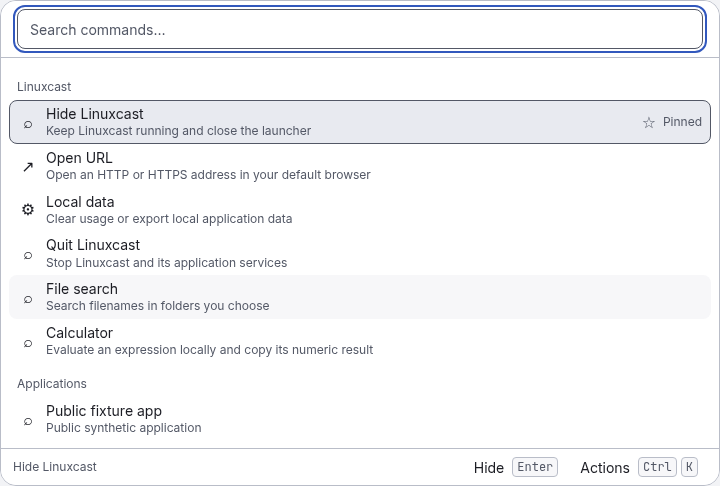
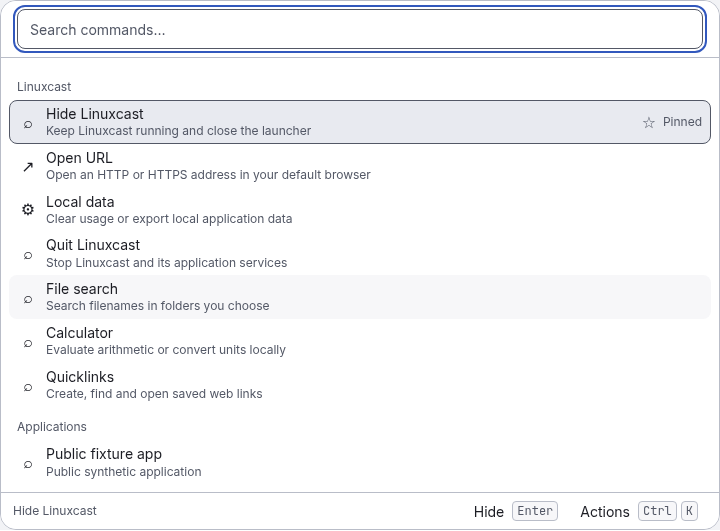
test(quicklinks): verify real saved-link application flow and record limits

diff --git a/apps/desktop/tests/quicklinks.integration.test.ts b/apps/desktop/tests/quicklinks.integration.test.ts
@@ -31,7 +31,7 @@ it('creates, locally finds, edits and explicitly opens real persisted Quicklinks
   const launch=async()=>{application=await electron.launch({executablePath:executable,args:[wrapper,'--show'],chromiumSandbox:true,env,timeout:20000});const page=await application.firstWindow();await page.waitForURL('linuxcast-app://shell/index.html');return {app:application,page};};
   const reopen=async()=>await new Promise<void>((resolve,reject)=>{const child=spawn(executable,[wrapper,'--show'],{env,stdio:'ignore'}),timer=setTimeout(()=>{child.kill('SIGKILL');reject(new Error('Reopen deadline.'));},10000);child.once('error',reject);child.once('exit',code=>{clearTimeout(timer);if(code===0)resolve();else reject(new Error('Reopen failed.'));});});
   let {app,page}=await launch();
-  const open=async()=>{const query=page.getByRole('searchbox',{name:'Search commands',exact:true});await query.fill('quicklinks');await expect.poll(()=>page.getByRole('option',{selected:true}).textContent()).toContain('Quicklinks');await query.press('Enter');await page.getByRole('searchbox',{name:'Quicklinks',exact:true}).waitFor();};
+  const open=async()=>{const query=page.getByRole('searchbox',{name:'Search commands',exact:true});await query.fill('quicklinks');await expect.poll(()=>page.getByRole('option',{selected:true}).textContent()).toContain('Quicklinks');await query.press('Enter');await page.getByRole('searchbox',{name:'Quicklinks',exact:true}).waitFor();await expect.poll(()=>page.locator('.lc-view:visible .lc-loading').count()).toBe(0);};
   const noOpen=()=>expect(existsSync(marker)).toBe(false),url='HTTPS://EXAMPLE.invalid:443/docs?public=%24%28literal%29',canonical='https://example.invalid/docs?public=%24%28literal%29';
   await open();noOpen();await action(page,'New quicklink');const name=page.getByRole('textbox',{name:'Name (required)',exact:true}),urlField=page.getByRole('textbox',{name:'URL (required)',exact:true});
   await name.fill('Public docs');await urlField.fill('https://example.invalid/{query}');await page.getByRole('button',{name:'Save quicklink',exact:true}).click();await expect.poll(()=>urlField.getAttribute('aria-invalid')).toBe('true');expect(await name.inputValue()).toBe('Public docs');noOpen();
@@ -43,14 +43,14 @@ it('creates, locally finds, edits and explicitly opens real persisted Quicklinks
   await localQuery.press('Enter');await expect.poll(()=>{try{return JSON.parse(readFileSync(marker,'utf8'));}catch{return null;}}).toEqual({argv:[canonical],stdin:''});await expect.poll(()=>app.evaluate(({BrowserWindow})=>BrowserWindow.getAllWindows()[0]!.isVisible())).toBe(false);
   await reopen();await open();await action(page,'Edit quicklink');await name.waitFor();expect(await name.inputValue()).toBe('Public docs');expect(await urlField.inputValue()).toBe(canonical);await name.fill('Public guide');await urlField.fill('https://example.invalid/updated?public=two');await page.getByRole('button',{name:'Save quicklink',exact:true}).click();await localQuery.waitFor();
   expect(JSON.parse(readFileSync(marker,'utf8'))).toEqual({argv:[canonical],stdin:''});
-  await app.evaluate(({dialog})=>{dialog.showMessageBox=async()=>({response:0,checkboxChecked:false});});await action(page,'Remove quicklink');await expect.poll(()=>page.getByRole('option').count()).toBe(1);
+  await app.evaluate(({dialog})=>{dialog.showMessageBox=async()=>({response:0,checkboxChecked:false});});await action(page,'Remove quicklink');await expect.poll(()=>page.locator('.lc-view:visible .lc-loading').count()).toBe(0);await expect.poll(()=>page.getByRole('option').count()).toBe(1);
   expect(await page.evaluate(async()=>{const result=await(window as unknown as {linuxcast:DesktopShellApi}).linuxcast.listQuicklinks!();return result.ok?result.value.records.map(value=>value.name):null;})).toEqual(['Public guide']);
   await action(page,'New quicklink');await name.fill('Public temporary');await urlField.fill('https://example.invalid/temporary');await page.getByRole('button',{name:'Save quicklink',exact:true}).click();await localQuery.waitFor();await localQuery.fill('temporary');await expect.poll(()=>page.getByRole('option').count()).toBe(1);
   await app.evaluate(({dialog})=>{dialog.showMessageBox=async()=>({response:1,checkboxChecked:false});});await action(page,'Remove quicklink');await expect.poll(()=>page.getByRole('option').count()).toBe(0);await localQuery.fill('guide');await expect.poll(()=>page.getByRole('option').count()).toBe(1);
   await page.getByRole('button',{name:'Back',exact:true}).click();const rootQuery=page.getByRole('searchbox',{name:'Search commands',exact:true});await rootQuery.waitFor();expect(await rootQuery.inputValue()).toBe('quicklinks');
   await rootQuery.fill('Local data');const settingsReady=app.waitForEvent('window');await rootQuery.press('Enter');const settings=await settingsReady;await settings.waitForURL('linuxcast-app://shell/data-settings.html');
   expect(await settings.evaluate(async()=>await(window as unknown as {linuxcastData:DataSettingsApi}).linuxcastData.clearCategory('command-usage'))).toMatchObject({ok:true,value:{outcome:'cleared'}});
-  await settings.getByRole('button',{name:'Close',exact:true}).click();await open();await localQuery.fill('guide');await expect.poll(()=>page.getByRole('option').count()).toBe(1);
+  await settings.getByRole('button',{name:'Close settings',exact:true}).click();await open();await localQuery.fill('guide');await expect.poll(()=>page.getByRole('option').count()).toBe(1);
   await localQuery.press('Enter');await expect.poll(()=>{try{return JSON.parse(readFileSync(marker,'utf8'));}catch{return null;}}).toEqual({argv:['https://example.invalid/updated?public=two'],stdin:''});await reopen();
   const quit=async()=>{const query=page.getByRole('searchbox',{name:'Search commands',exact:true});await query.fill('quit');await expect.poll(()=>page.getByRole('option',{selected:true}).textContent()).toContain('Quit Linuxcast');const exited=new Promise<number|null>(resolve=>app.process().once('exit',resolve));await query.press('Enter',{noWaitAfter:true});expect(await exited).toBe(0);application=undefined;};
   await quit();({app,page}=await launch());await open();await page.getByRole('searchbox',{name:'Quicklinks',exact:true}).fill('guide');await expect.poll(()=>page.getByRole('option').count()).toBe(1);await page.getByRole('button',{name:'Back',exact:true}).click();await quit();

diff --git a/apps/desktop/src/features/launcher/tests/quicklinks-routing.test.ts b/apps/desktop/src/features/launcher/tests/quicklinks-routing.test.ts
@@ -8,11 +8,12 @@ function setup(){let revision=1;
     listQuicklinks:vi.fn(async()=>({ok:true as const,value:{records:[{id,revision:1,name:'Public docs',host:'example.invalid'}]}})),getQuicklink:vi.fn(),saveQuicklink:vi.fn(),removeQuicklink:vi.fn(),openQuicklink:vi.fn(async()=>({ok:true as const,value:{id,revision:1,outcome:'dispatched' as const}}))};
   const dismiss=vi.fn(async()=>({ok:true as const,value:null})),controller=new LauncherController(api,dismiss);controllers.push(controller);controller.setVisible(true);return {api,dismiss,controller,nextRevision:()=>{revision++;}};
 }
+function query(f:ReturnType<typeof setup>,value:string){f.controller.session.setQuery('linuxcast-launcher',value);f.controller.query(value);}
 function top(f:ReturnType<typeof setup>){return f.controller.session.getSnapshot().frames.at(-1)!;}
 async function invoke(f:ReturnType<typeof setup>,actionId:string,itemId?:string){const frame=top(f);return f.controller.execute({viewId:frame.view.viewId,revision:frame.view.revision,actionId,...(itemId?{itemId}:{})});}
 async function open(f:ReturnType<typeof setup>){const frame=top(f);f.controller.session.select(frame.view.viewId,'linuxcast:open-quicklinks');await invoke(f,'linuxcast:open-quicklinks','linuxcast:open-quicklinks');await settle();}
 it('routes registered Quicklinks into the existing List/Form without generic execution or implicit browser effects',async()=>{
-  const f=setup();await settle();f.controller.query('saved root query');await settle();f.controller.query('Quicklinks');await settle();await open(f);expect(top(f).view).toMatchObject({kind:'list',title:'Quicklinks'});expect(f.api.executeLauncherCommand).not.toHaveBeenCalled();expect(f.api.openQuicklink).not.toHaveBeenCalled();
+  const f=setup();await settle();query(f,'saved root query');await settle();query(f,'Quicklinks');await settle();await open(f);expect(top(f).view).toMatchObject({kind:'list',title:'Quicklinks'});expect(f.api.executeLauncherCommand).not.toHaveBeenCalled();expect(f.api.openQuicklink).not.toHaveBeenCalled();
   const list=top(f);f.controller.session.setQuery(list.view.viewId,'example.invalid');await settle();expect(top(f).view.kind).toBe('list');expect(top(f).view.kind==='list'&&top(f).query).toBe('example.invalid');await invoke(f,'quicklinks:new');expect(f.controller.session.getSnapshot().frames).toHaveLength(3);expect(top(f).view).toMatchObject({kind:'form',title:'New quicklink'});
   f.controller.setVisible(false);expect(f.controller.session.getSnapshot().frames).toHaveLength(1);f.controller.setVisible(true);await settle();expect(top(f).query).toBe('Quicklinks');expect(f.api.saveQuicklink).not.toHaveBeenCalled();expect(f.api.openQuicklink).not.toHaveBeenCalled();
 });
@@ -23,6 +24,6 @@ it('retains unknown Open across Hide/reopen and rejects a late receipt until exp
   await invoke(f,'quicklinks:reload');await invoke(f,'quicklinks:open',id);expect(f.api.openQuicklink).toHaveBeenLastCalledWith({id,revision:1,launcherRevision:2});expect(f.dismiss).toHaveBeenCalledTimes(1);
 });
 it('Back preserves root selection and query and never handles an action from a closed Quicklinks frame',async()=>{
-  const f=setup();await settle();f.controller.query('Quicklinks');await settle();await open(f);const frame=top(f);await invoke(f,'quicklinks:back');await settle();expect(f.controller.session.getSnapshot().frames).toHaveLength(1);expect(top(f).selection).toBe('linuxcast:open-quicklinks');expect(top(f).query).toBe('Quicklinks');
+  const f=setup();await settle();query(f,'Quicklinks');await settle();await open(f);const frame=top(f);await invoke(f,'quicklinks:back');await settle();expect(f.controller.session.getSnapshot().frames).toHaveLength(1);expect(top(f).selection).toBe('linuxcast:open-quicklinks');expect(top(f).query).toBe('Quicklinks');
   await f.controller.execute({viewId:frame.view.viewId,revision:frame.view.revision,actionId:'quicklinks:open',itemId:id});expect(f.api.openQuicklink).not.toHaveBeenCalled();
 });

diff --git a/apps/desktop/tests/shell.integration.test.ts b/apps/desktop/tests/shell.integration.test.ts
@@ -214,7 +214,7 @@ MimeType=x-scheme-handler/http;x-scheme-handler/https;
     return { require: typeof windowApi.require, process: typeof windowApi.process,
       methods: Object.keys(windowApi.linuxcast ?? {}).sort(), runtime: windowApi.linuxcast?.runtime };
   })).toEqual({ require: 'undefined', process: 'undefined',
-    methods: ['copyCalculatorResult', 'executeApplicationAction', 'executeLauncherCommand', 'getLauncherCommands', 'getState', 'hideLauncher', 'onState', 'openDataSettings', 'openLauncherUrl', 'quit', 'reportContentHeight', 'runtime', 'setLauncherAlias', 'setLauncherHidden', 'setLauncherPinned'],
+    methods: ['listQuicklinks','getQuicklink','saveQuicklink','removeQuicklink','openQuicklink','copyCalculatorResult', 'executeApplicationAction', 'executeLauncherCommand', 'getLauncherCommands', 'getState', 'hideLauncher', 'onState', 'openDataSettings', 'openLauncherUrl', 'quit', 'reportContentHeight', 'runtime', 'setLauncherAlias', 'setLauncherHidden', 'setLauncherPinned'].sort(),
     runtime: { sandboxed: true, contextIsolated: true } });
   expect(await page.evaluate(async () => {
     return await new Promise<boolean>(resolve => {

diff --git a/docs/implementation/PROGRESS.md b/docs/implementation/PROGRESS.md
@@ -15,13 +15,15 @@ Updated27October2026. **PR39 merged** [registered application Desktop Actions](h
 
 DesktopActions source frozen81759cd/4545eff; maina251db4; nativead82d13(author923092d); UI5df3a99(author38fb7b5); final wiring/menu fix/actualevidencea537abe; registry2e89dd9.210units/139security/5contracts/53launcherUI/10sharedUI and fulltype/lint/plan/diff PASS. Nativeauthor11actualprivate-XDG tests and Rustfmt pass on identical source. Actual bundled Electron45/SQLite3.53.4/nativeGIO2.72.4/private-XvfbX11 PASS11.23s: actionExec-only stale refusal/no marker→explicitReload→actual distinct updated literal argv/empty stdin; validatedrequestedreceipt→UIHide/reopen; aggregatecount2/noactionIDargs inexport; retained clear/visibility/restart/finalowner checks. Ninecomponent+twoactual+fourshared/scaled captures inspected. Compact menu clipping fixed with token cap/space8 padding and actual scrollHeight<=clientHeight assertion. Independent SOLhigh fullsource/finaldelta/visual reviews clean. Full typedlaunch/history/DBus/terminal/localization/nativeAT/session/release acceptance remainsunfinished.
 
-Coordinator `.worktrees/linuxcast-application-controls`, branch **codex/quicklinks-application-flow** from47fd2ef. Selected next **L2-05 saved web Quicklinks**: user creates named HTTP/HTTPS link through existing shared Form, finds it in shared List and explicitly opens through existing GIO URL backend; soleowner persistence and actual process-marker/restart evidence required. Card/norms inspected; skill-library query returned no matches. Frozen11af106 contracts/package/migration006 and repositoryf681529(authorceaa5ef) exist. Coordinator main/preload/owner/routing implemented; UI integration/final review/actual Electron verification pending. No full acceptance claimed. Literal saved-link increment must reject unsupported placeholder syntax explicitly; full placeholders/arguments/snapshots/typedbuilders/browser/fileURI/tags/pin/hide/export still required. Do not reduce97task1.0scope. L1/F3 full prerequisite gates remain pending under user-approved unfinished application increments.
+Current reviewed increment: **L2-05 saved web Quicklinks**, coordinator `.worktrees/linuxcast-application-controls`, branch **codex/quicklinks-application-flow** from47fd2ef. Ready to publish after final evidence commit; PR/CI/merge pending. Frozen11af106, repositoryf681529(authorceaa5ef), shared focus74b9954, coordinator4fa3078, UI49ead21(author0134083). Independent SOL6.1/high freeze/main/storage/final lifecycle reviews clean after host-bound and stale-native-prompt fixes. Actual create/search/explicitOpen/edit/cancel+confirmdelete/clear/restart passes; no foundation/research/proof expansion.
 
-All agents SOLhigh: manifest_review_sol currently implements bounded Quicklinks UI; alias_review_sol reviewed shared integration clean after stale-native-prompt fix; repository author completed. Reusable worktrees: manifest_review_sol `.worktrees/linuxcast-l1-01` clean38fb7b5/codex/l1-02-desktop-actions-ui; file_search_service_sol `.worktrees/linuxcast-l1-02-native` clean923092d/codex/l1-02-desktop-actions-native; readonlyalias_review_sol cleanreviews. Never reactivateAstra. No root live test/exec handle. One transient SOL capacity error was retried on same model; no switch. Do not give manifest infrastructure/research/proof work.
+PASS57units(54presentation+3rootrouting)/5contracts/21security/17integration(11domain+5owner-client+1actualapp), author14Chromium keyboard/axe and12captures. Actual Electron45/SQLite3.53.4/GIO2.72.4/privateXvfb X11 flow4.27s: actual defaultbrowser-handler exact URL argv/empty stdin; no implicitOpen; native dialog choices only instrumented; usageclear retains definitions; fullQuit/restart/finalowner persistence/export excludes names/URLs/queries. Four actual Quicklinks+two affected root captures inspected. Regressions210launcherunits/139security/19storage/10sharedUI and actualproduction shell9.56s pass. Fulltype/lint/plan/diff pass. Smoke observations are not performance/native-session acceptance.
 
-Current Quicklinks work: root main/preload/owner routing and actualproduction fixture written. PASS5contracts/21security/16repository-owner/19storage regression checks; full lint/plan/diff pass. Root fulltypecheck awaits presentation module only. Shared collection focus fallback74b9954 addresses author browser finding; existing shared10UI suite running. manifest completed49presentation cases and is validating14browser/9captures, with one transient SOLcapacity error retried on SAME6.1SOLhigh. No model switch. Source review clean after fixed pre-confirmation sender/visibility check; final UI/lifecycle review pending.
+All authors/reviewer **GPT-6.1 SOL/high**. Completed reusable agents: manifest_review_sol `.worktrees/linuxcast-l1-01` clean0134083, branchcodex/l2-05-quicklinks-ui (includes sharedfocuscherry8252fc2); file_search_service_sol `.worktrees/linuxcast-l1-02-native` cleanceaa5ef/codex/l2-05-quicklinks-repository; readonlyalias_review_sol finalreviewclean. One transient SOLcapacity error retried SAME model, no switch. No live test/exec handles. Do not reactivate olderAstraagents or give manifest infrastructure/research/proof work.
 
-Next: integrate signed UI author commit, run root3routing tests and actual production Electron create/search/Open→real GIO marker/edit/cancel+confirmdelete/clear/restart/export checks, inspect screenshots, finalreview, focusedPR/currentheadCI/normalmerge. Then refresh primary/build and continue bounded application work. Complete placeholders/arguments/snapshots/typedbuilders/browser/fileURI/tags/pin/hide/export/nativeAT/session/release remain pending. GoalACTIVE8done/13inprogress/76planned;50passed/331pending/8NA. No physical-input/device authorization.
+L2-05 remainsinprogress. Literal targets explicitly reject raw braces/templates; full placeholders/snapshots/arguments/nonrecursive snippets/typedbuilders/browser/open-with/fileURI/tags/pin/hide/export remain mandatory. L1/F3 full dependencies, nativeAT/desktopmatrix/installedpackage/release gates remainunfinished under user-approved small increments. Privacycriterionpassed with actual synthetic/export evidence; otherL2-05criteria pending. GoalACTIVE8done/13inprogress/76planned,51passed/330pending/8NA. No scope reduction or physical-input/device authorization.
+
+Next: final evidence commit, focusedPR/currentheadCI/requestedreview audit/normalmerge, refresh primary/frozeninstall/build, then select the next bounded application flow without asking task choices. Keep complete97task1.0scope and all releasegates.
 
 PR38 commandvisibility d1ac477 merged26October13:54:29UTC exacthead6a5c77f/CI40334362130;178units/2contracts/58security/19owner/43storage/43browser and actual11.81s pass; no requestedreviews/comments/unresolvedthreads. PR37colours493653a/CI40290318465 merged26October08:11:24UTC. Full L1providers/fallback/AI and calculatorcalendar/DST/rates/nativeAT/release remain required. Historical evidence remains in registry/cards/Git.
 

diff --git a/docs/implementation/tasks/L2-05.md b/docs/implementation/tasks/L2-05.md
@@ -45,7 +45,11 @@ Shared contracts, dependency manifests, lockfiles, migration numbering and task 
 - [ ] **pending** `L2-05-AC02` — Recursive/missing/unsupported cursor placeholders produce explicit errors.
 - [ ] **pending** `L2-05-UI` — Relevant design states and keyboard/accessibility paths are covered for user-facing changes.
   - Applies when: This task introduces or changes user-facing behaviour.
-- [ ] **pending** `L2-05-PRIVACY` — No secrets/private content enter fixtures, diagnostics or screenshots.
+- [x] **passed** `L2-05-PRIVACY` — No secrets/private content enter fixtures, diagnostics or screenshots.
+  - Command/check: `Mapped L2-05 contract/unit/security/integration/UI checks; actual production usage-export assertions and review of synthetic fixtures/screenshots`.
+    Outcome: Fixtures/captures use public synthetic names and example.invalid/example.org URLs. Main derives targets from fresh stored IDs; URL/name/query bodies are absent from aggregate command usage and fixed error messages. Actual private browser-handler process receives only explicit saved URL argv with empty stdin; no implicit browser/network operation on navigation/save. No private or credential material added to tests, diagnostics or captures.
+    Platform/backend: Linux x64, Node24.22.1/Bun1.4.4, Electron45/SQLite3.53.4/GIO2.72.4, owned private Xvfb X11; Chromium UI fixtures are separate from native acceptance.
+    Reference: Source11af106/f681529/4fa3078/49ead21; packages/builtins/quicklinks/{README.md,tests/,evidence/}, apps/desktop/tests/quicklinks.integration.test.ts and apps/desktop/evidence/quicklinks-application-{dark,light}-{form,list}.png. Independent SOL6.1/high review clean.
 
 ## Validation
 
@@ -62,9 +66,12 @@ Coordinator records the implementation PR/commit, check outcomes, desktop/backen
 
 - Selected27October2026 after merged PR39/47fd2ef: next bounded application flow is a saved named HTTP/HTTPS Quicklink, local search and explicit browser opening using existing shared List/Form/Actions, sole SQLite owner and validated native OpenURL backend. Coordinator isolated codex/quicklinks-application-flow; task card/normative references inspected. No implementation or acceptance evidence exists yet. Full placeholder/snapshot/template/argument/browser/file-URI/tag/export requirements remain mandatory; no MVP scope change. Existing L1-01/F3 interfaces are used under user-approved unfinished increments, with full prerequisite acceptance still required.
 - 27October2026 bounded Quicklinks implementation in progress: frozen11af106 independently reviewed after canonical host bound fix; repository authorceaa5ef integratedf681529. PASS5strict contract/11actual SQLite repository/5owner-client tests including real schema5→6 backup/restart/clear preservation;21main/preload boundary tests including stale native prompt refusal;19storage visibility/pin/alias regression tests. Main/preload/storage source independently reviewed clean after stale-dialog fix. UI author and production Electron flow are not yet integrated/verified; no full acceptance claimed.
+- Reviewed application increment27October2026: frozen11af106, repositoryf681529(authorceaa5ef), shared query-focus74b9954, coordinator4fa3078 and UI49ead21(author0134083). Users create/edit literal named HTTP/HTTPS links through shared Form, locally search complete500 summaries with100 visible, explicitly Open via fresh owner ID/revision and existing GIO. Save/navigation never open a browser. Native-confirmed conditional deletion, strict receipts, shared effect/read fences and persistent unknown-state Reload recovery are integrated. Independent SOL6.1/high source reviews clean after canonical-host and stale-prompt fixes; no additional foundational work.
+- PASS57mapped units (54presentation+3rootrouting),5contracts,21main/preload security and17integration checks (11domain SQLite+5owner/client+1actual production app). Actual Electron45/SQLite3.53.4/GIO2.72.4/private-Xvfb X11 flow passed4.27s: create/search/real default-browser-handler argv+empty stdin/Open/edit/native-choice cancel+confirm removal/usageclear/Hide/restart/final owner persistence and aggregate export without names/URLs/queries. Only dialog choices instrumented. Four production Quicklinks and two affected root dark/light captures inspected; actual axe clean. These are smoke observations, not performance or supported-session acceptance.
+- UI author passed14Chromium keyboard/axe checks and inspected12dark/light/affected captures. Existing shared10UI,210launcher units,139application/main/preload security,19storage pin/alias/visibility and actual production shell regression9.56s pass. Full typecheck/lint/plan/diff pass. Real version5→6 migration includes consistent snapshot, confirmed reopen and definitions preserved by usage/index clear. Full L2-05 placeholder/component-builder/argument/nativeAT/session/release scope remains pending.
 
 ## Outstanding limitations
 
-- Saved literal HTTP/HTTPS repository and coordinator IPC/storage/routing are implemented on the isolated branch. UI integration, final lifecycle review, actual Electron/GIO browser-marker flow and merge remain outstanding. Full task acceptance remains pending.
+- This reviewed increment implements only saved literal HTTP/HTTPS definitions and their create/edit/remove/local-search/explicit-Open flow. Full placeholder/argument and broader UI/desktop/release acceptance remains unfinished; the task stays in-progress. Native dispatch is not proof of browser page completion or focus.
 - Full L2-05 placeholder grammar/snapshot contexts/named arguments/nonrecursive snippets, typed component builders, browser/open-with/file/registered-URI targets, tags/pin/hide and native export remain required. Unsupported placeholder syntax must fail explicitly; it must not silently open a changed/literalized template.
 - L1-01/F3-01 full provider/permission UI/native prerequisite acceptance remains pending. User-approved unfinished increments do not waive complete dependencies or desktop/AT/release gates.

diff --git a/packages/builtins/quicklinks/README.md b/packages/builtins/quicklinks/README.md
@@ -57,15 +57,27 @@ Validation on Node 24.22.1/Bun 1.4.4:
 - `evidence/`: dark/light List, Form, invalid-input and unknown-opening captures,
   plus pending Save, loading, unavailable and separate Hide-failure states.
 - Typecheck, scoped ESLint, plan validation and diff checks pass. Tests use
-  `LINUXCAST_TEST_FILES` with the two explicit owned test paths until coordinator
-  suite integration. Shared List query-focus fix 74b9954 is a separate prerequisite.
+  the mapped `bun run test:unit -- L2-05` and `bun run test:ui -- L2-05` suites.
+  Shared List query-focus fix 74b9954 is a separate prerequisite.
+
+Coordinator integration also passes five strict contract tests, 21 main/preload
+security checks, 11 domain SQLite and five owner/client migration/persistence
+checks, three root routing checks and the actual bundled Electron45/GIO2.72.4
+flow on an owned private Xvfb X11 display (SQLite3.53.4). The latter creates,
+locally searches, edits and explicitly opens a saved URL through a real private
+browser-handler process with exact argv/empty stdin; it checks native-choice
+cancel/confirm deletion, usage clear, complete restart and a URL-free aggregate
+usage export. Only native dialog choices are instrumented. This is actual
+process/persistence evidence, not supported desktop/session or browser page
+completion acceptance. Production captures are in `apps/desktop/evidence/`
+with the `quicklinks-application-` prefix.
 
 Fixtures are labelled, public synthetic in-memory data and request observers.
 They perform no native confirmation, actual browser handoff, SQLite write or
 network request. These checks provide partial L2-05 AC01 input/authority,
 AC02 explicit unsupported-template, UI and PRIVACY evidence; they do not establish
-placeholder execution or native persistence/dispatch. The coordinator owns actual
-SQLite/main/preload/GIO and production-app validation. Full snapshot placeholders,
+placeholder execution. Actual coordinator persistence/dispatch evidence is
+separately described above. Full snapshot placeholders,
 named arguments, nonrecursive snippets, typed URL component builders, browser/
 open-with/file/registered-URI targets, tags/pin/hide and native export remain
 required. L1/F3 prerequisites, Debian GNOME/KDE Wayland/X11, native assistive
